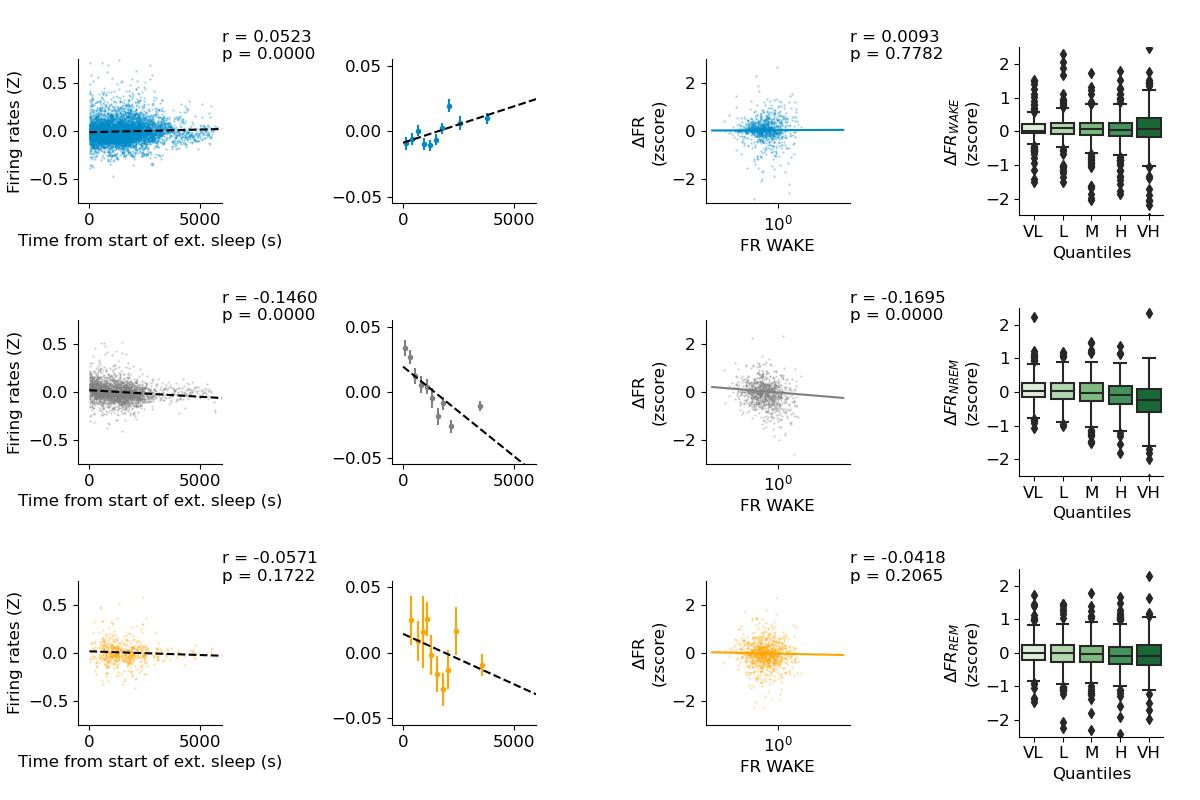
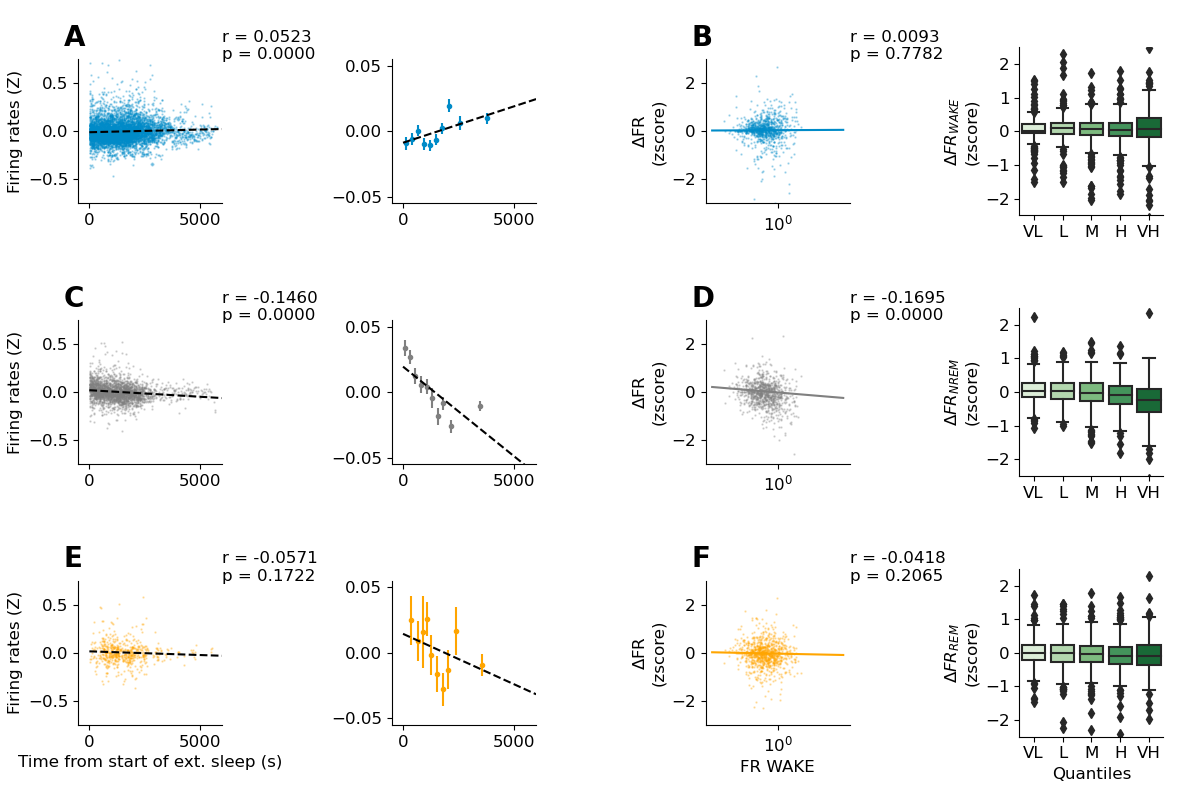
doc

diff --git a/plots/plot_delta_fr.py b/plots/plot_delta_fr.py
@@ -256,9 +256,14 @@ if __name__ == '__main__':
     for a in ax.flatten(): plot.clean_axes(a)
     # plt.tight_layout()
 
-    fig.savefig('output.png')
 
-    # plt.savefig('plots/figures/extended.svg')
+    plot.labels_in_grid(ax.flatten(),numbers = {(0,0):0,
+                                                (0,2):1,
+                                                (1,0):2,
+                                                (1,2):3,
+                                                (2,0):4,
+                                                (2,2):5,},all_ylabels=True)
 
-    
+    plt.savefig('plots/figures/main-extended.png')
+    plt.savefig('plots/figures/main-extended.svg')
     # fig.savefig('plots/figures/delta_quantiles.svg')

diff --git a/bk/plot.py b/bk/plot.py
@@ -172,7 +172,10 @@ def labels_in_grid(axes: list, first_col=1, numbers: dict = None, all_ylabels=Fa
         numbers = {}
     # Adjust axes labels depending on position
     for ax in axes:
-    
+        s = ax.get_subplotspec()
+        # subplot_pos = s.get_rows_columns()
+        row = s.rowspan.start # subplot_pos[2]
+        col = s.colspan.start # subplot_pos[4]
         if row != max_row - 1:
             # If not last row, do not get a xlabel to save space
             ax.set_xlabel('')

diff --git a/docs/source/usage/BLA_active_REM.rst b/docs/source/usage/BLA_active_REM.rst
@@ -73,18 +73,18 @@ Figures
    283 NREM-REM transitions ; n = 1777 principal neurons ; n = 260 interneurons). (E) 55.7% of principal and 72.0% of interneurons
    are REM-ON cells (poisson-test against firing during NREM, p < 0.001). (F) Linear regression between increase of firing rates
    during REM sleep and firing rates during WAKE. Principal neurons that fires the most during WAKE tends to increase less during
-   REM sleep (r = −0.20, p = 5.66 × 10−17 ). Interneurons increase does not depends on WAKE firing rates (r = −0.02, p = 0.76)
+   REM sleep (r = −0.20, p = 5.66 × 10−17  ). Interneurons increase does not depends on WAKE firing rates (r = −0.02, p = 0.76)
    (G) Same as (F) but neurons a grouped by quintiles based on average firing rates during WAKE. (Kruskal-Wallis p < 1033 followed
    by Mann-Whitney with Bonferroni correction).
 
 
-   .. figure:: ../../../plots/figures/supp-fr_state.png
+.. figure:: ../../../plots/figures/supp-fr_state.png
       
-      Figure S3. Firing Rates in the BLA at transitions.
+  Figure S3. Firing Rates in the BLA at transitions.
 
 
-      (A) Histogram of firing rates during SLEEP (NREM+REM). Red lines shows quintiles cutoff. (B) Same as Fig. 2D but quintiles
-      are compute on SLEEP firing rates. (C,D) Same as Fig. 2F,G but x-axis is firing rates during SLEEP
+  (A) Histogram of firing rates during SLEEP (NREM+REM). Red lines shows quintiles cutoff. (B) Same as Fig. 2D but quintiles
+  are compute on SLEEP firing rates. (C,D) Same as Fig. 2F,G but x-axis is firing rates during SLEEP
 
 
 

diff --git a/docs/source/index.rst b/docs/source/index.rst
@@ -9,12 +9,10 @@ Welcome to Amygdala Sleep Dynamics's documentation!
 .. toctree::
    :maxdepth: 2
    :caption: Contents:
+   :glob:
 
-   usage/howto
-   usage/installation
+   usage/*
    data_format
-   usage/BLA_active_REM
-   usage/BLA_increase-wake_decrease_nrem
    modules
 
 